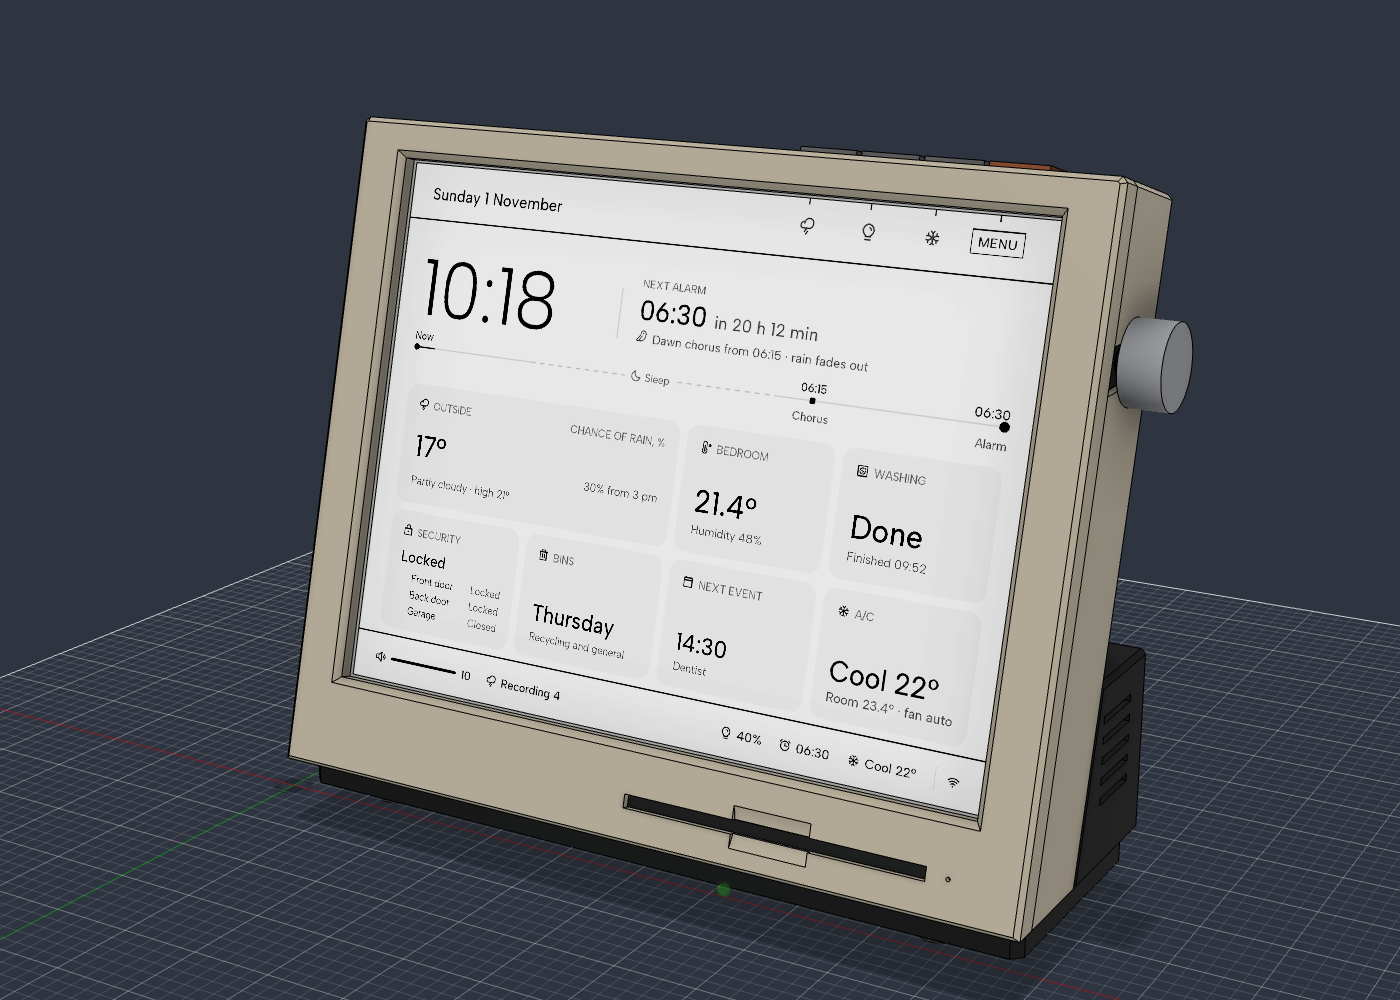
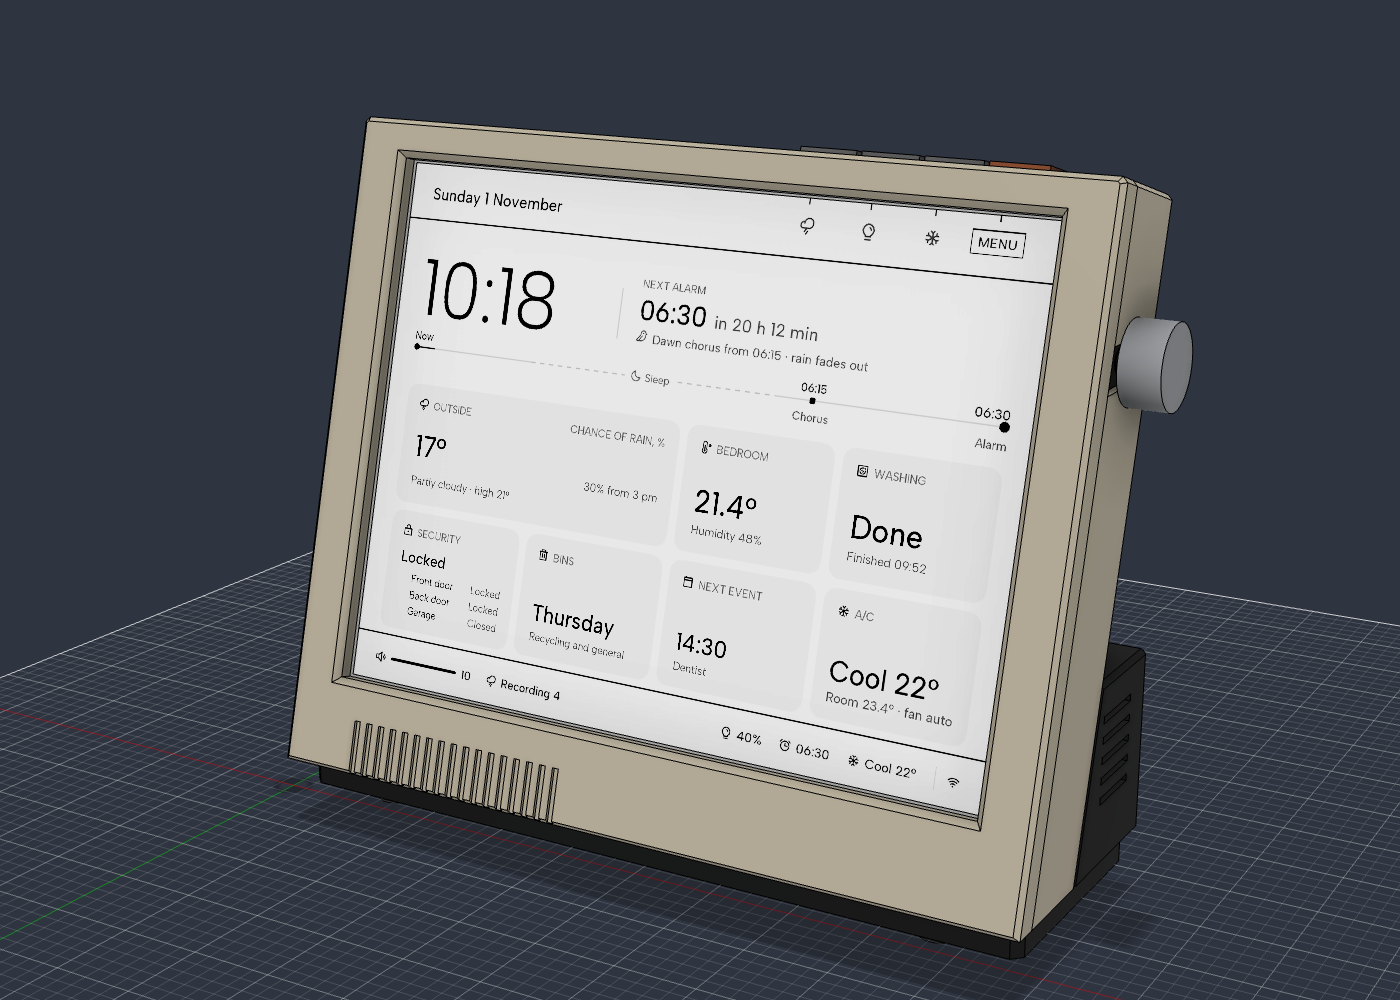
Case MK II: slats on the chin in place of the floppy slot

Changed region(s): [[0.43, 0.775, 0.6757, 0.899], [0.2457, 0.713, 0.3993, 0.837]]

diff --git a/cad/fusion/case/case_mk2.py b/cad/fusion/case/case_mk2.py
@@ -240,9 +240,8 @@ def run(_context: str):
     chamfer(comp, pick(body(), lambda a, b: near(a[2], WF) and near(b[2], WF) and all(15 < p[0] < 229 and 24 < p[1] < 186 for p in (a, b))), 2.0, 'screen bevel')
     chamfer(comp, pick(body(), lambda a, b: near(a[0], b[0]) and all(near(p[1], 196) and side(p[0]) for p in (a, b))), EC, 'bezel top corners')
     chamfer(comp, pick(body(), lambda a, b: near(a[2], WF) and near(b[2], WF) and not all(11 < p[0] < 233 and 20 < p[1] < 190 for p in (a, b))), EC, 'bezel front edge')
-    # a fake floppy drive on the chin: a 94 mm slot, a shallow finger scoop across its middle and an eject pinhole. Decorative only.
-    floppy = [obox(122, 7.5, WF - 1, 216, 11.5, WF + 3.0), cyl(F(157, 9.5, WF + 1.6 - 12), F(181, 9.5, WF + 1.6 - 12), 12.0), wcyl(222.5, 9.5, WF - 1, WF + 2.0, 0.6)]
-    cut_tools(comp, [U(floppy)], 'floppy slot')
+    # slats on the chin: the same 2 mm grooves as the top of the rear shell, in line with them, running off the bottom edge
+    cut_tools(comp, [U([obox(25 + 4.5*i, -10, WF - 1, 27 + 4.5*i, 14, WF + 1.0) for i in range(17)])], 'chin slats')
     # --- foot corners ---
     comp = made['Mid chassis']; mb = lambda: comp.bRepBodies.item(0)
     chamfer(comp, pick(mb(), lambda a, b: all((near(p[0], 3) or near(p[0], 241)) and (near(p[3], 6) or near(p[3], 81)) for p in (a, b)) and abs(a[4] - b[4]) > 5), 3.0, 'foot corners')
@@ -250,8 +249,6 @@ def run(_context: str):
         for b in made[n].bRepBodies: b.appearance = appearance(design, 'c%d_%d_%d' % COL[n], COL[n])
     o = rc.occurrences.addNewComponent(adsk.core.Matrix3D.create()); o.component.name = 'Power switch'
     add_bodies(o.component, switch_bodies(), design)
-    o = rc.occurrences.addNewComponent(adsk.core.Matrix3D.create()); o.component.name = 'Floppy slot insert'      # a black strip glued into the back of the slot so it reads as dark
-    add_bodies(o.component, [('Floppy slot insert', obox(122.2, 7.7, WF + 2.0, 215.8, 11.3, WF + 3.0), BLACK)], design)
     o = rc.occurrences.addNewComponent(adsk.core.Matrix3D.create()); o.component.name = 'Screws'
     add_bodies(o.component, screws(), design)
-    print('save', case.save('MK II case: fake floppy drive on the chin'))
+    print('save', case.save('MK II case: slats on the chin'))
